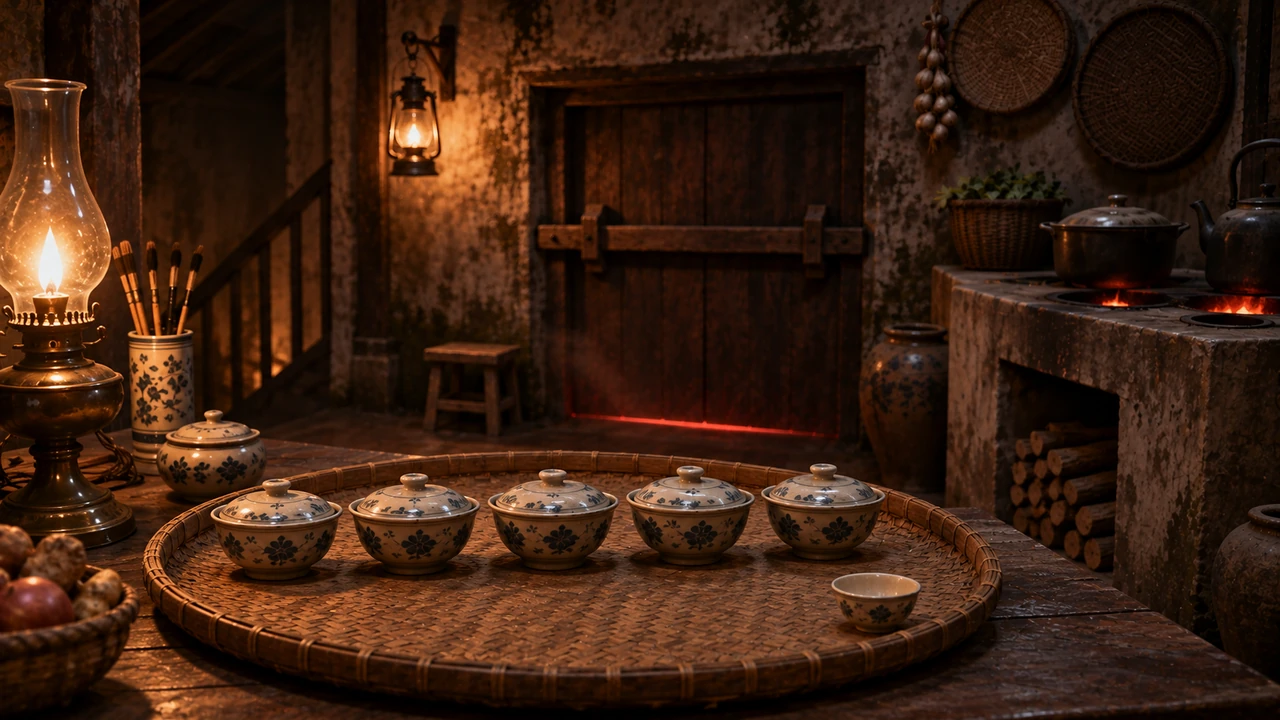
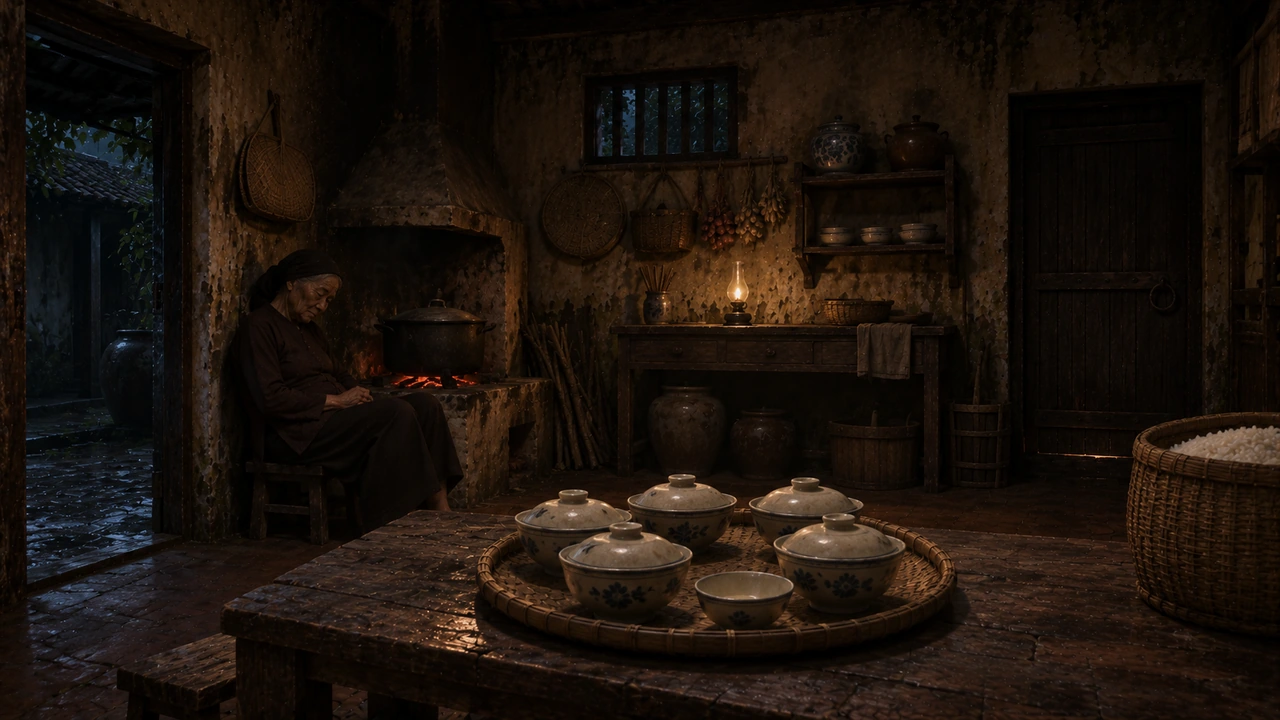
Thay BG34, BG41, BG43 bằng ảnh mới; căn lại hotspot; lưu BG51
Claude-Session: https://claude.ai/code/session_01Qh7p9GeLoQ36Sps9V4WBv1

diff --git a/game.js b/game.js
@@ -90,16 +90,16 @@ const SCENES = {
  BG30:{name:"Ban công tầng hai",time:"03:30",chapter:'CHƯƠNG 10 · NĂM CÁI TÊN',mood:"BAN CÔNG · 03:30",caption:"Từ đây nhìn xuống cả khu rừng, và xa xa là vài đốm đèn của thôn Đồng Chay.",look:"Gió thổi qua lan can mục. Chiếc ghế bập bênh vẫn khẽ đung đưa.",spots:[H("chair","Ghế bập bênh",56,38,22,46),H("inspect:tea2","Bộ ấm trà nguội trên bàn tròn",41,52,15,32),H("inspect:herbs","Bó thuốc nam treo",55,12,12,22),H("inspect:lights","Ánh đèn thôn xa xa",59,26,12,10),H("travel:BG27","Cửa vào phòng ngủ",82,14,18,66)]},
  BG31:{name:"Bên trong miếu cây đa",time:"03:50",chapter:'CHƯƠNG 10 · NĂM CÁI TÊN',mood:"TRONG MIẾU · 03:50",caption:"Rễ đa quấn kín tường. Năm bát hương xếp hàng, một ngọn nến vẫn cháy.",look:"Dải vải đỏ buộc trên những chiếc rễ, mỗi năm một dải. Nến chảy xuống mặt bàn đá.",spots:[H("incenseFive","Năm bát hương trên bàn đá",40,52,32,12),H("inspect:statues","Những pho tượng gỗ nhỏ",51,33,19,18),H("inspect:jar2","Chiếc chum lớn",91,77,9,16),H("travel:BG05","Ra khỏi miếu",6,22,15,48)]},
  BG32:{name:"Kho đồ lễ dưới hầm",time:"03:40",chapter:'CHƯƠNG 10 · NĂM CÁI TÊN',mood:"KHO ĐỒ LỄ · 03:40",caption:"Năm vị trí vẽ phấn, năm bát lễ. Cánh cửa gỗ hắt ra một vệt sáng đỏ.",look:"Nước nhỏ giọt từ trần. Trên tường là những vạch phấn trắng, xếp nhóm năm một.",spots:[H("cellMarks","Những vạch phấn trên tường",3,12,14,20),H("inspect:ring","Vòng sắt buộc dây đỏ",18,17,6,20),H("inspect:mats","Năm vị trí vẽ phấn và năm bát lễ",34,66,62,17),H("inspect:jar3","Chiếc vò nước nứt",53,38,8,17),H("travel:BG26","Cánh cửa lên kho vật tư",85,6,15,55)]},
- BG34:{name:"Bếp biệt thự, năm 1988",time:"02:50",chapter:"ĐÊM 17/3/1988 · BÉ MƠ",mood:"BẾP · 1988",caption:"Than hồng còn đỏ. Một chiếc bát nhỏ nằm riêng trên mâm tre.",look:"Bếp nhà ông Bá Lâm còn nguyên vẹn, ấm mùi khói rạ.",spots:[H("fbBowl","Chiếc bát nhỏ để riêng",64,80,11,11),H("fbMan","Bóng bà Mận ngủ gật dưới chân cầu thang",14,34,14,24),H("inspect:fbBasket","Rổ tre cạnh bếp",74,26,9,13),H("inspect:fbLamp3","Chiếc đèn bão trên tường",29,8,6,17),HR("fbBowl","travel:BG35","Lên hành lang",18,14,10,18)]},
+ BG34:{name:"Bếp biệt thự, năm 1988",time:"02:50",chapter:"ĐÊM 17/3/1988 · BÉ MƠ",mood:"BẾP · 1988",caption:"Than hồng còn đỏ. Một chiếc bát nhỏ nằm riêng trên mâm tre.",look:"Bếp nhà ông Bá Lâm còn nguyên vẹn, ấm mùi khói rạ.",spots:[H("fbBowl","Chiếc bát nhỏ để riêng",55,78,9,10),H("fbMan","Bà Mận ngủ gật bên bếp",19,35,17,40),H("inspect:fbBasket","Rổ tre đựng gạo",88,57,12,32),H("inspect:fbLamp3","Ngọn đèn dầu trên bàn bếp",56,35,5,11),HR("fbBowl","travel:BG35","Cánh cửa sang hành lang",79,11,15,53)]},
  BG35:{name:"Hành lang tầng hai, năm 1988",time:"02:58",chapter:"ĐÊM 17/3/1988 · BÉ MƠ",mood:"HÀNH LANG · 1988",caption:"Dưới khe cửa phòng cha có một vệt đèn dầu và tiếng hai người đàn ông nói chuyện.",look:"Sàn gỗ bóng, bình hoa mới cắm, đèn dầu chưa tắt.",spots:[H("fbKeys","Chỗ nghe lén cạnh cánh cửa",86,6,9,32),H("fbCha","Cánh cửa phòng cha",63,0,18,78),H("inspect:fbLamp","Ngọn đèn dầu",49,40,6,14),H("travel:BG34","Xuống bếp",0,40,10,50),HR("fbKeys","travel:BG37","Xuống cầu thang bếp",12,28,16,45)]},
  BG37:{name:"Cửa hầm sau bếp, năm 1988",time:"03:05",chapter:"ĐÊM 17/3/1988 · BÉ MƠ",mood:"CỬA HẦM · 1988",caption:"Tiếng đập cửa và tiếng người gọi vọng lên từ bên dưới. Then gỗ cài từ phía ngoài.",look:"Hơi nóng và mùi khói đồ lễ lọt qua khe cửa.",spots:[H("fbLua","Tiếng gọi sau cánh cửa",50,50,28,36),H("fbBowls","Then cửa gỗ",42,28,38,16),H("inspect:fbLamp2","Ngọn đèn bão",31,12,6,18),HR("fbFed","fbLock","Cha kéo Mơ ra ngoài",4,35,18,40)]},
  BG36:{name:"Hành lang bếp, cửa hầm vẫn đóng",time:"03:12",chapter:"ĐÊM 17/3/1988 · BÉ MƠ",mood:"HÀNH LANG BẾP · 1988",caption:"Tiếng đập cửa nhỏ dần phía sau. Ngoài sân có ánh đèn của bàn tế.",look:"Mơ ngồi bệt xuống sàn nơi cha vừa gạt em ra.",spots:[H("inspect:fbSilent","Tiếng gõ cửa yếu dần",30,28,13,18),H("travel:BG38","Chạy ra sân giếng",80,17,17,60)]},
  BG38:{name:"Sân giếng, đêm mưa năm 1988",time:"03:17",chapter:"ĐÊM 17/3/1988 · BÉ MƠ",mood:"SÂN GIẾNG · 03:17",caption:"Mưa xối xuống sân. Chiếc đèn bão nằm nghiêng bên miệng giếng.",look:"Mưa tạt rát mặt. Trên miệng giếng, nắp gỗ đã xô lệch.",spots:[H("fbSeal","Thứ gì đó đặt trên thành giếng",58,47,22,9),HR("fbSeal","fbLeft","Bám tường chạy vòng bên trái",0,12,30,70),HR("fbSeal","fbWell","Chạy thẳng ngang miệng giếng",42,56,45,30),H("inspect:fbShoe","Chiếc giày vải nhỏ",55,83,8,7)]},
  BG39:{name:"Đường làng trong mưa",time:"03:20",chapter:"ĐÊM 17/3/1988 · BÉ MƠ",mood:"ĐƯỜNG LÀNG · 1988",caption:"Một đốm sáng rất xa. Em chưa bao giờ tới được.",look:"Con đường bùn kéo dài giữa hai rặng tre.",spots:[H("fbLight","Đốm sáng xa xa",80,38,12,16),H("inspect:fbGate","Cổng biệt thự phía sau",2,5,23,70)]},
  BG40:{name:"Rừng thiêng buổi sớm",time:"05:40",chapter:"CHƯƠNG 11 · RỪNG THIÊNG",mood:"RỪNG THIÊNG · 05:40",caption:"Sương loãng dần. Những dải vải đỏ khẽ lay trên cành.",look:"Cây đa, cây gạo và một bàn thờ đá phủ rêu.",spots:[H("forestAltar","Bàn thờ đá trong rừng",28,62,26,22),H("redCloth","Dải vải đỏ có thêu chữ",44,10,6,30),H("inspect:bloom","Hoa gạo đỏ trên cành",66,5,22,18),H("travel:BG41","Lối về nhà bà ngoại Nguyệt",86,60,14,38),H("travel:BG08","Quay về cổng biệt thự",0,78,18,20)]},
- BG41:{name:"Nhà bà ngoại Nguyệt",time:"06:30",chapter:"CHƯƠNG 11 · RỪNG THIÊNG",mood:"ĐỒNG CHAY · 06:30",caption:"Nắng sớm lên mái ngói. Trên bàn thờ nhỏ có một bức ảnh thờ.",look:"Ngôi nhà nhỏ nơi bà ngoại Nguyệt từng sống.",spots:[H("grandPhoto","Ảnh thờ trên bàn thờ",22,34,6,10),H("inspect:grandChair","Chiếc ghế mây trước hiên",54,53,14,25),H("inspect:grandTea","Ấm trà trên bàn",64,60,13,14),H("inspect:grandBasket","Chiếc nong treo tường",4,24,10,20),H("travel:BG40","Quay lại rừng thiêng",88,60,12,35)]},
+ BG41:{name:"Nhà bà ngoại Nguyệt",time:"06:30",chapter:"CHƯƠNG 11 · RỪNG THIÊNG",mood:"ĐỒNG CHAY · 06:30",caption:"Nắng sớm lên mái ngói. Trên bàn thờ nhỏ có một bức ảnh thờ.",look:"Ngôi nhà nhỏ nơi bà ngoại Nguyệt từng sống.",spots:[H("grandPhoto","Ảnh thờ trên bàn thờ",11,15,9,22),H("inspect:grandChair","Chiếc ghế mây",38,49,23,40),H("inspect:grandTea","Ấm trà trên bàn",25,64,12,12),H("inspect:grandBasket","Chiếc nong treo tường",58,28,8,17),H("travel:BG40","Cửa ra rừng thiêng",70,14,26,58)]},
  BG42:{name:"Miệng giếng bị trám kín",time:"04:10",chapter:"CHƯƠNG 9B · BÁT CƠM NÓNG",mood:"SÂN GIẾNG · 04:10",caption:"Vòng hoa nhài khô nằm trên nắp xi măng nứt.",look:"Ai đó đã xây bịt miệng giếng ba mươi năm trước, và vẫn có người đặt hoa.",spots:[H("wellSealed","Vòng hoa nhài trên nắp giếng",52,41,30,14),H("inspect:jasmine2","Hoa nhài dại",8,5,8,10),H("travel:BG09","Quay ra sân",0,62,24,34)]},
- BG43:{name:"Gác nhỏ của cô Lụa",time:"04:00",chapter:"CHƯƠNG 9B · BÁT CƠM NÓNG",mood:"GÁC NHỎ · 04:00",caption:"Hạc giấy khẽ xoay trên xà. Trên bàn, một cuốn sổ nằm mở.",look:"Căn gác sau bếp, nơi cô Lụa ngủ mỗi đêm trước khi bị nhốt.",spots:[H("luaDiary","Cuốn nhật ký trên bàn",47,70,23,19),H("takeDoll","Con búp bê vải",78,50,14,29),H("tornPhoto","Mảnh ảnh giấu dưới gối",34,50,17,13),H("inspect:comb2","Chiếc lược gỗ",84,79,11,10),H("inspect:cranes2","Hạc giấy treo trên xà",41,0,24,36),H("inspect:window3","Cửa sổ nhìn xuống sân",70,3,21,44),H("travel:BG13","Xuống bếp",0,40,10,30)]},
+ BG43:{name:"Gác nhỏ của cô Lụa",time:"04:00",chapter:"CHƯƠNG 9B · BÁT CƠM NÓNG",mood:"GÁC NHỎ · 04:00",caption:"Hạc giấy khẽ xoay trên xà. Trên bàn, một cuốn sổ nằm mở.",look:"Căn gác sau bếp, nơi cô Lụa ngủ mỗi đêm trước khi bị nhốt.",spots:[H("luaDiary","Cuốn nhật ký trên bàn",47,42,20,16),H("takeDoll","Con búp bê vải",75,50,12,16),H("tornPhoto","Mảnh ảnh giấu dưới gối",6,48,25,16),H("inspect:comb2","Chiếc lược gỗ",73,66,11,16),H("inspect:cranes2","Hạc giấy treo trên xà",45,10,22,18),H("inspect:window3","Cửa sổ nhìn xuống sân",84,18,15,28),H("travel:BG13","Xuống bếp",0,4,9,28)]},
  BG44:{name:"Chỗ cắm trại trên hiên",time:"01:30",chapter:"ĐÊM TRẠI",mood:"HIÊN NHÀ · 01:30",caption:"Ngọn lửa nhỏ đủ sưởi ấm năm người, và đủ để họ nói chuyện.",look:"Năm túi ngủ quanh đống lửa trước hiên biệt thự.",spots:[H("campfire","Đống lửa trại",49,56,13,23),H("inspect:kettle","Ấm nước đun trên lửa",42,62,6,8),H("inspect:bags","Túi ngủ của cả nhóm",16,70,26,22),H("inspect:flash2","Đèn pin để dưới đất",56,80,6,4),H("travel:BG10","Xuống bậc hiên",88,8,12,60)]},
  BG45:{name:"Sân ngoài chùa làng",time:"08:30",chapter:'CHƯƠNG 1 · ĐỒNG CHAY',mood:"SÂN CHÙA · 08:30",caption:"Sân gạch dưới tán cây đại. Một bàn gỗ nhỏ, ba đồng xu trên đĩa sứ.",intro:["Ánh","Sân chùa yên quá. Ông cụ ngồi bên bàn xem quẻ kia có vẻ biết trước bọn mình sẽ đến."],look:"Hoa đại rụng trắng trên gạch. Ở sâu trong chùa có hai ngọn đèn lồng sáng giữa ban ngày.",spots:[H("huu","Ông Hựu và bàn xem quẻ",61,63,28,34),H("inspect:pagoda","Chùa làng",33,10,30,35),H("inspect:daitree","Cây đại nở hoa",72,0,28,40),H("travel:BG01","Về cổng làng",0,60,24,38)]},
  BG46:{name:"Bàn lễ trước miếu cây đa",time:"20:30",chapter:'CHƯƠNG 1 · LỐI VÀO RỪNG',mood:"BÀN LỄ · 20:30",caption:"Sáu chỗ bày lễ trên mặt bàn gỗ mục. Hai ngọn đèn đang cháy.",intro:["Nguyệt","Mâm lễ bày trước miếu. Đếm thử xem: sáu chỗ."],look:"Cơm, nước, hoa cúc trắng. Một chỗ đèn chưa thắp. Rễ đa ôm kín bức tường miếu.",spots:[H("lampSix","Ngọn đèn chưa thắp",62,67,17,15),H("inspect:lamps2","Hai ngọn đèn đang cháy",24,66,34,17),H("inspect:bowls3","Cơm, nước, hoa",26,50,52,14),H("inspect:petition2","Cuộn giấy và tấm vải đỏ",3,58,17,22),H("inspect:idol","Bài vị trong khám đá",40,14,20,28),H("travel:BG05","Lùi lại",34,91,32,9)]},
@@ -371,7 +371,7 @@ Object.assign(MORE,{
  lights:[["Nguyệt","Mình sẽ cho họ nghe thấy lần này."]]
 });
 Object.assign(CONVO,{
- BG34:[["Mơ","Bếp vẫn còn than hồng. Bà Mận ngủ gật bên bếp rồi."],["Mơ","Trên mâm có sáu cái bát. Năm bát to, một bát bé xíu vừa tay con. Bát bé ấy để riêng, không ai nói là của ai."]],
+ BG34:[["Mơ","Bếp vẫn còn than hồng. Bà Mận ngủ gật bên bếp rồi."],["Mơ","Trên mâm có mấy cái bát úp nắp, và một cái bé xíu không có nắp, vừa tay con. Bát bé ấy để riêng, không ai nói là của ai."]],
  BG35:[["Mơ","Cha còn thức. Đèn dầu vẫn sáng dưới khe cửa."],["Mơ","Cha đang nói chuyện với một người lạ. Con phải thật nhẹ, nhẹ như con mèo."]],
  BG37:[["Mơ","Cánh cửa dưới bếp... Sao có tiếng người ở bên dưới?"]],
  BG36:[["Mơ","Cha đẩy con ra rồi. Dưới kia vẫn còn tiếng gõ. Mà ngoài sân có ánh đèn..."]],
@@ -390,7 +390,7 @@ Object.assign(INSPECT2,{
  petition2:["Nam","Một cuộn giấy buộc dây và tấm vải đỏ gấp gọn. Tớ có cảm giác đừng nên chạm vào."],
  idol:["Nguyệt","Bài vị trong khám đá mờ gần hết. Chỉ đọc được mấy chữ đầu: “Huyền Lâm Thánh Quân”. Tớ ghi lại, có thể phải đối chiếu về sau."],
  fbBasket:["Mơ","Rổ đựng gạo của bà Mận. Gạo thì còn ít, mà bà vẫn bớt phần mình cho con."],
- fbLamp3:["Mơ","Đèn bão treo trên tường. Bà Mận luôn để sáng đến tận khi cả nhà ngủ."],
+ fbLamp3:["Mơ","Đèn dầu trên bàn bếp. Bà Mận luôn để sáng đến tận khi cả nhà ngủ."],
  fbLamp:["Mơ","Đèn dầu của cha. Cha thức khuya hơn cả con gà trống."],
  fbLamp2:["Mơ","Đèn dầu leo lét. Hơi nóng và mùi khói lễ lọt qua khe cửa, nồng đến cay mắt."],
  fbSilent:["Mơ","Tiếng gõ yếu dần. Có ai đó ho, rồi im. Con không dám nghe tiếp."],
@@ -870,7 +870,7 @@ function startFlashbackPrompt(){chooseModal('Đêm 17/3/1988','Mơ nắm lấy t
 function startFlashback(){state.flags.mo=true;state.flags.fbBowl=false;state.flags.fbMan=null;state.flags.fbKeys=false;state.flags.fbSeal=false;state.flags.fbFed=false;state.flags.fbCha=false;save();go('BG34')}
 function fbMan(){
  if(state.flags.fbMan){say('Mơ','Bà Mận vẫn ngủ gật bên bếp.');return}
- chooseModal('Bà Mận ngủ gật','Trong bóng tối dưới chân cầu thang, bà Mận ngồi dựa vào cột, hai tay còn nắm chiếc muôi. Mơ định bước qua thật khẽ.',[['Đánh thức bà',()=>{state.flags.fbMan='wake';save();talk([['Mơ','Bà ơi, ai đang làm gì ngoài sân vậy?'],['Bà Mận','...Con. Mơ, không được ra sân. Cha con dặn rồi.'],['Bà Mận','Bà không giúp được con đâu. Bà sợ... Thôi, con về buồng đi, đừng nghe gì cả.'],['Mơ','Con thấy bà khóc. Bà ơi, con chỉ đi xem một chút thôi.']])}],['Để bà ngủ',()=>{state.flags.fbMan='quiet';save();talk([['Mơ','Con đi nhẹ lắm đấy, bà Mận ơi.'],['Mơ','Mỗi đêm bà đều giả vờ ngủ. Con biết bà biết hết. Bà vẫn để cho con đi.']])}]],'LỰA CHỌN')}
+ chooseModal('Bà Mận ngủ gật bên bếp','Bà ngồi bên bếp than, đầu gục xuống, hai tay còn nắm chiếc muôi. Mơ định bước qua thật khẽ.',[['Đánh thức bà',()=>{state.flags.fbMan='wake';save();talk([['Mơ','Bà ơi, ai đang làm gì ngoài sân vậy?'],['Bà Mận','...Con. Mơ, không được ra sân. Cha con dặn rồi.'],['Bà Mận','Bà không giúp được con đâu. Bà sợ... Thôi, con về buồng đi, đừng nghe gì cả.'],['Mơ','Con thấy bà khóc. Bà ơi, con chỉ đi xem một chút thôi.']])}],['Để bà ngủ',()=>{state.flags.fbMan='quiet';save();talk([['Mơ','Con đi nhẹ lắm đấy, bà Mận ơi.'],['Mơ','Mỗi đêm bà đều giả vờ ngủ. Con biết bà biết hết. Bà vẫn để cho con đi.']])}]],'LỰA CHỌN')}
 function fbBowl(){if(state.flags.fbBowl){say('Mơ','Chiếc bát bé xíu vẫn nằm đó, trống không.');return}state.flags.fbBowl=true;save();render();talk([['Mơ','Bát này nhỏ xíu, vừa tay con. Sao lại để riêng, không ai ăn?'],['Mơ','Con nghe tiếng người lớn nói chuyện trên gác. Con lên xem.']]);renderSidebar()}
 function fbKeys(){
  if(state.flags.fbKeys){say('Mơ','Con nhớ mãi: “Nó sẽ đứng dậy.” Con không hiểu thầy ấy nói về ai.');return}
